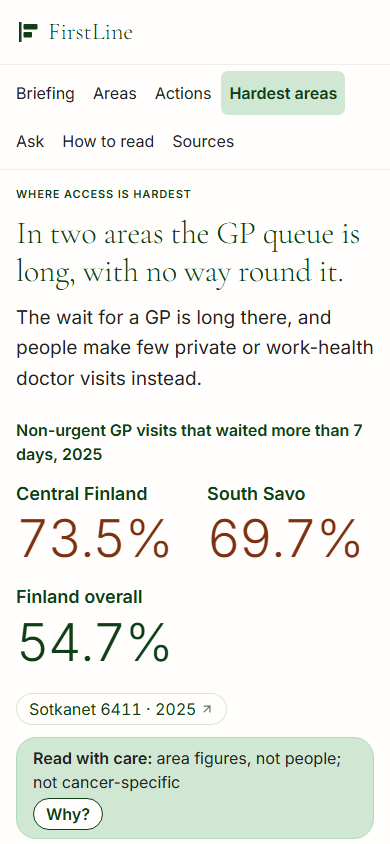
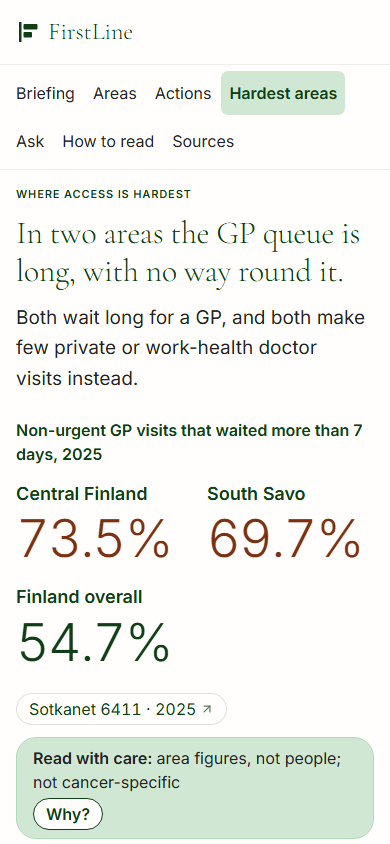
fix(insights): area-level dek, divider only where three figures fit, phone anchor lands on the template
- Dek: 'Both wait long for a GP, and both make few ... visits instead', so it does not contradict 'area figures, not people'.
- The rule before Finland overall only from 1024px, where the three figures share a row.
- Card anchors scroll to 16px on phones (the header is not sticky), so #starter-dataset shows the Excel button at 390x844.
- Notes: corrected self-score (8.7), attribution, and new frames.

Changed region(s): [[0.0308, 0.3697, 0.9538, 0.4621]]

diff --git a/app/insights/page.tsx b/app/insights/page.tsx
@@ -90,7 +90,7 @@ function InsightCard({
         id={id}
         aria-labelledby={`${id}-title`}
         className={cn(
-          "flex scroll-mt-28 flex-col gap-6 print:gap-3",
+          "flex scroll-mt-4 flex-col gap-6 sm:scroll-mt-28 print:gap-3",
           split && "lg:grid lg:grid-cols-[minmax(0,2fr)_minmax(0,3fr)] lg:content-start lg:gap-x-12 print:flex",
         )}
       >
@@ -223,7 +223,7 @@ export default function InsightsPage({ searchParams }: PageProps<"/insights">) {
           </h1>
           {/* What "no way round it" means, in words, before any figure. */}
           <p className="max-w-[60ch] text-[1.1875rem] leading-[1.6] text-pretty text-foreground">
-            The wait for a GP is long there, and people make few private or work-health doctor visits instead.
+            Both wait long for a GP, and both make few private or work-health doctor visits instead.
           </p>
         </Reveal>
         {/* The measure first, then the two areas beside Finland overall, so the gap is seen, not read. */}
@@ -240,7 +240,7 @@ export default function InsightsPage({ searchParams }: PageProps<"/insights">) {
                 </dd>
               </div>
             ))}
-            <div className="flex flex-col gap-2 sm:border-l sm:border-frame-border sm:pl-14">
+            <div className="flex flex-col gap-2 lg:border-l lg:border-frame-border lg:pl-14">
               <dt className="type-heading text-forest-ink">Finland overall</dt>
               <dd className="numeral text-[3.25rem] leading-none text-forest-ink sm:text-[5.5rem] print:text-[32pt]">
                 {FINLAND_WAIT}

diff --git a/docs/audit/insights/rework-3/notes.md b/docs/audit/insights/rework-3/notes.md
@@ -6,10 +6,11 @@ Checked on a production build (`next start -p 3122`, started and stopped by PID 
 
 ## What still held the page back
 
-The round-4 judge found these problems (rounds 1–3 are already fixed):
+**Named by the round-4 judge and still open:** the card-1 sentence was dense.
+
+**From my own audit of the page with R4-01, R4-06, R4-07 and R4-08 applied** (the judge did not raise these):
 - **The lead proved only half its claim.** The h1 "In two areas the GP queue is long, with no way round it" never said what "no way round it" means. That was left to card 1.
 - **The comparison had to be read, not seen.** The two big figures came first, and the measure and "Finland overall: 54.7%" came in a sentence after them.
-- **The card-1 sentence was dense:** "Of the 14 areas that wait longer than Finland overall, only two also make few private or work-health doctor visits in all six tests."
 - **Small things.** The pathway card's three source chips (NHS England, PubMed Central, the roadmap) sat under a Finnish pathway with nothing to say which gap each one backs. "Show the Goal 3 link" read like a hyperlink. Two "Show … all 22 areas" labels were nearly the same.
 - **The primary action was far down the page.** The Excel template sits in the last card, about 3,000px below the start, with no way to reach it from the top.
 
@@ -20,14 +21,15 @@ All changes are in `app/insights/page.tsx`, `components/insights/no-way-round-ti
 | Element | Before | After | Why |
 |---|---|---|---|
 | Eyebrow | "GP wait, 2025" | "Where access is hardest" (the nav label) | Same as `/sources` and `/how-to-read`, whose eyebrows are the page name. The year moved to the measure line. |
-| Under the h1 | nothing | "The wait for a GP is long there, and people make few private or work-health doctor visits instead." | Says what "no way round it" means, in words, before any figure. No number. |
-| Hero figures | Central Finland 73.5%, South Savo 69.7%, then "of non-urgent GP visits waited more than 7 days. Finland overall: 54.7%." | The measure line "Non-urgent GP visits that waited more than 7 days, 2025" comes first. Then a `<dl>`: the two areas in rust, a hairline, and **Finland overall 54.7%** in Forest Ink at the same size. | The gap is seen at a glance: red, red, green. The measure is read before the numbers. On a phone the two areas sit side by side (52px) and Finland overall goes under them. |
-| Chip and caveat | two rows | one row (`flex-wrap`) | Wins back the height the dek added. Card 1 starts at y=701 at 1366×768, against 679 before, so its top is still on the first screen. |
+| Under the h1 | nothing | "Both wait long for a GP, and both make few private or work-health doctor visits instead." | Says what "no way round it" means, in words, before any figure. No number. The areas are the subject, as in card 1, so the line does not contradict the "area figures, not people" caveat under it. |
+| Hero figures | Central Finland 73.5%, South Savo 69.7%, then "of non-urgent GP visits waited more than 7 days. Finland overall: 54.7%." | The measure line "Non-urgent GP visits that waited more than 7 days, 2025" comes first. Then a `<dl>`: the two areas in rust, then **Finland overall 54.7%** in Forest Ink at the same size, after a hairline from 1024px. Below that width Finland overall wraps to its own line with no rule (`after-t-header-closed.png`, 768px). | The gap is seen at a glance: red, red, green. The measure is read before the numbers. On a phone the two areas sit side by side (52px) and Finland overall goes under them. |
+| Chip and caveat | two rows | one row (`flex-wrap`) | Wins back the height the dek added. Card 1 starts at y=701 at 1366×768, against 679 before, so its top is still on the first screen. The cost: only the legend's 22 and 14 lines are above the fold now; before, its 14, 8 and 2 lines were. |
 | Header actions | "Save or share" | "Save or share" plus a quiet underlined link, "Go to the recording template ↓" (`#starter-dataset`) | The persona can reach the page's one action from the first screen. The link is underline-quiet, so the Excel button stays the only primary button. |
 | Card 1 title | "Of the 14 areas that wait longer than Finland overall, only two also make …" | "14 areas wait longer than Finland overall. Only two of them also make few private or work-health doctor visits in all six tests." | Two short sentences, with the count first. "Only two" stays tied to "in all six tests", because 8 areas meet the condition in the main view. |
 | Card 1 legend | "14 Longer GP wait …", "8 … and few …", "2 … true in every one …" | It now reads as a funnel: "22 All areas", "14 Longer GP wait than Finland overall", "8 Of those, few private or work-health doctor visits instead", "2 Of those, true in every one of the six tests we ran" | No line starts on "…" any more. Each line is a subset of the one above, and 22 is counted from the tiles. |
 | Card 3 sources | three bare chips | One row per unpublished step: **GP recognition**, NHS England Fingertips; **Diagnosis**, PubMed Central; **Treatment start**, Kansallinen syöpästrategia | Says which gap each source backs. Each pair comes from the step's `data-gaps.json` row. |
 | Card 2 table button | "Show all 22 areas" | "Show the change for all 22 areas" | Card 1 already has "Show the figures for all 22 areas". |
+| Scroll margin of the four card anchors | 112px at every width | 16px under 640px, 112px from 640px | The header is not sticky. On a phone, `#starter-dataset` (and the new header link) now lands with the Excel button in view. |
 | Card 4 Goal 3 button | "Show the Goal 3 link" | "Show how this ties to Goal 3" | It no longer reads like a hyperlink. |
 
 **Kept on purpose:**
@@ -40,7 +42,7 @@ The method is the same as rework 2. The page is rendered in print (print media, 
 - **Numbers:** 193 distinct tokens before and 193 after, with none missing and none new. With `?area=vantaa-kerava` it is 195 and 195. No number is typed into the page. The 22 legend line is `areas.length`, and 54.7% is the `FINLAND_WAIT` that was already on the page.
 - **Links:** 17 before and 17 after, the same set.
 - **Ids:** `#no-way-round`, `#early-warning`, `#pathway` and `#starter-dataset` are all kept. The only id change is React's auto-generated `_R_…` ids.
-- **Words:** the print text went from 3,428 to 3,456 words (+28), and visible words with every panel closed from 540 to 578. All of the added words come from the dek, the measure line, the template link, the "All areas" legend line and the step names beside the chips.
+- **Words:** the print text went from 3,428 to 3,454 words (+26), and visible words with every panel closed from 540 to 576. All of the added words come from the dek, the measure line, the template link, the "All areas" legend line and the step names beside the chips.
 - **Wording:** the print text, plain and with `?area`, has no "Finland's level" and no bare "worse than Finland".
 
 ## Checks
@@ -53,41 +55,42 @@ The method is the same as rework 2. The page is rendered in print (print media, 
 | Text under 16px, apart from the 11px eyebrows | none | none |
 | h1 count | 1 | 1 |
 | Console errors | none | none |
-| `?area=vantaa-kerava#pathway` | card top at 112px, panel open | same |
+| `?area=vantaa-kerava#pathway` | card top at 112px, panel open | 112px at 1366, 16px at 390, panel open |
 | `#starter-dataset`, 1366 | Excel button at y=504–560, in view | same |
-| `#starter-dataset`, 390 | button at y=790–871, cut by the 844px fold | same (see "Known limits") |
+| `#starter-dataset`, 390 | button at y=790–871, cut by the 844px fold | button at y=694–775, in view (`after-m-anchor-starter.png`) |
 | Reduced motion | complete | complete (every screenshot here is taken under it) |
 | Motion on, after a slow scroll | 34 elements under full opacity | 34. All are the intentionally dimmed icons (`lucide-arrow-up-right` on chips, `lucide-arrow-up-down` on sort buttons). No content is faint. |
 | No JS (after 2.5 s) | download link in the HTML, 9 `<details>`, 4 anchors | same |
-| Print | 9 of 9 `<details>` open, 0 closed | same; the template link is `print:hidden` along with "Save or share" |
+| Print | 9 of 9 `<details>` open, 0 closed | Same. The three figures sit on one row and the caveat prints open (`after-print-top.png`). The template link is `print:hidden` along with "Save or share". |
 | Excel download | `firstline-cancer-pathway-starter-template.xlsx`, 9,444 bytes | same |
-| "Save or share" open, and "Why?" open | — | Both work. The menu opens in flow under its button and the template link stays in the row (`after-d-share-open.png`, taken before the row was set to `items-start`, which now keeps the link at the top). The caveat panel opens in place (`after-m-why-open.png`). |
+| "Save or share" open, and "Why?" open | — | Both work. The menu opens in flow under its button and the template link stays in the row (`after-d-share-open.png`). The caveat panel opens in place (`after-m-why-open.png`). |
 
 Verify: `npm test` (517 of 517 pass), `brief:check`, `typecheck`, `lint`, `build`, `check-insights` (OK, 930 derived rows) and `check-hardcoded` (OK) all pass.
 
 ## Self-score against the rubric
 
-These are scored from the frames in this folder, against the round-4 judge's 8.2 (8.0, 8.0, 8.5, 8.5, 8.0, 8.5).
+These are scored from the frames in this folder, against the round-4 judge's 8.2 (8.0, 8.0, 8.5, 8.5, 8.0, 8.5). They are my estimates, not a judge's.
 
 | Criterion | R4 | Now | Reason |
 |---|---|---|---|
-| Clarity 25% | 8.0 | 9.0 | The lead now says what it claims and shows the comparison: two red figures beside Finland overall, under a named measure. The card-1 sentence is two short sentences, and the legend reads as a funnel. The sources on card 3 say which gap they back. |
-| Ease 25% | 8.0 | 8.5 | The page's one action is one click from the first screen, and the labels no longer collide. Held back: on a phone the panel tables still scroll sideways (with the R4-08 hint), and `#starter-dataset` at 390 lands with the Excel button half under the fold. |
+| Clarity 25% | 8.0 | 9.0 (estimate) | The lead now says what it claims and shows the comparison: two red figures beside Finland overall, under a named measure. The card-1 sentence is two short sentences, and the legend reads as a funnel. The sources on card 3 say which gap they back. |
+| Ease 25% | 8.0 | 8.5 | The page's one action is one click from the first screen and lands in view at both widths, and the labels no longer collide. Held back: on a phone the three panel tables still scroll sideways (with the R4-08 hint). |
 | Hierarchy & consistency 20% | 8.5 | 9.0 | The eyebrow matches the family. The hero hierarchy is h1, then what it means, then the measure, then the figures, then source and caveat, then actions. |
-| Type & spacing 15% | 8.5 | 8.5 | Unchanged rules. The hero is 133px taller on desktop, but card 1 still shows on the first screen. |
+| Type & spacing 15% | 8.5 | 8.5 | Unchanged rules. The page is 133px taller on desktop, and card 1 moved down 22px. Its top still shows on the first screen, but fewer legend lines do. |
 | Motion & interaction 10% | 8.0 | 8.0 | Unchanged. |
 | Accessibility 5% | 8.5 | 8.5 | The figures are now a `<dl>` with their names as `<dt>`, and the legend's count line is read. |
 
-**Weighted:** 0.25×9.0 + 0.25×8.5 + 0.2×9.0 + 0.15×8.5 + 0.1×8.0 + 0.05×8.5 = **8.78, so about 8.8**. That is honest, but short of the 9.0 target. What blocks the rest is ease on a phone:
-- a stacked phone list for the three panel tables (the `/compare` pattern);
-- a landing for `#starter-dataset` that puts the Excel button in view at 390.
+**Weighted:** 0.25×9.0 + 0.25×8.5 + 0.2×9.0 + 0.15×8.5 + 0.1×8.0 + 0.05×8.5 = 2.25 + 2.125 + 1.8 + 1.275 + 0.8 + 0.425 = **8.675, so about 8.7**. That is short of 9.0.
 
-Both are restructures I did not attempt in this pass. The shared `stack-table` class would put 14px labels on the page, which breaks the 16px rule, and the fix for that is in `app/globals.css`, outside these folders.
+Ease alone would not close the gap: raising it to 9.0 gives only 8.8. A 9.0 needs about 9 on nearly every row, which means:
+- **Ease:** a stacked phone list for the three panel tables. It can be built inside `components/insights/sortable-table.tsx` with `max-sm:` utilities and 16px labels. It is not done in this pass, and needs no shared change.
+- **Type and spacing:** win back first-screen space so the whole legend shows at 1366×768.
+- **Motion:** something that earns a 9, which this pass did not touch.
 
 ## Known limits
 
 - The no-JS fallback with `?area=<id>` is the same as in rework 2: the default area is shown.
-- `#starter-dataset` at 390×844 lands with the Excel button at y=790–871. This was already the case before this pass. The new header link goes to the same anchor.
+- The panel tables on a phone still scroll sideways, with the R4-08 hint (see the self-score).
 
 ## Screenshots
 
@@ -96,7 +99,9 @@ Both are restructures I did not attempt in this pass. The shared `stack-table` c
 - Also in this pass:
   - `after-d-area-full.png`: `?area=vantaa-kerava`;
   - `after-m-anchor-pathway.png`: landing on `?area=…#pathway`;
-  - `after-d-anchor-starter.png`;
+  - `after-d-anchor-starter.png`, `after-m-anchor-starter.png`;
+  - `after-t-header-closed.png`: 768px;
+  - `after-print-top.png`: print media, A4 width;
   - `after-nojs-full.png`;
   - `after-d-share-open.png`;
   - `after-m-why-open.png`.
